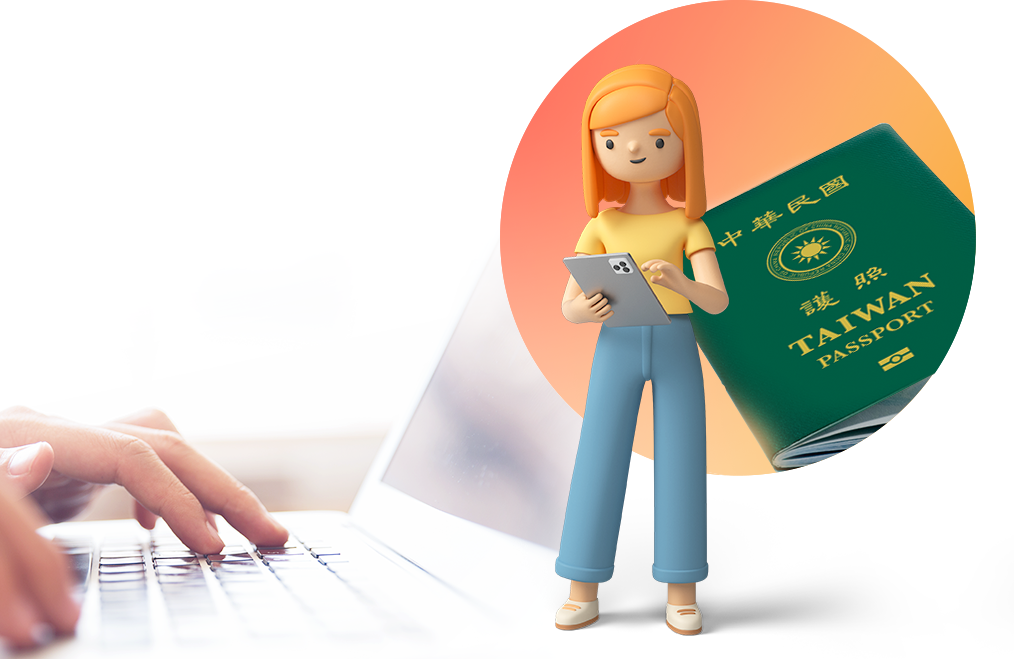
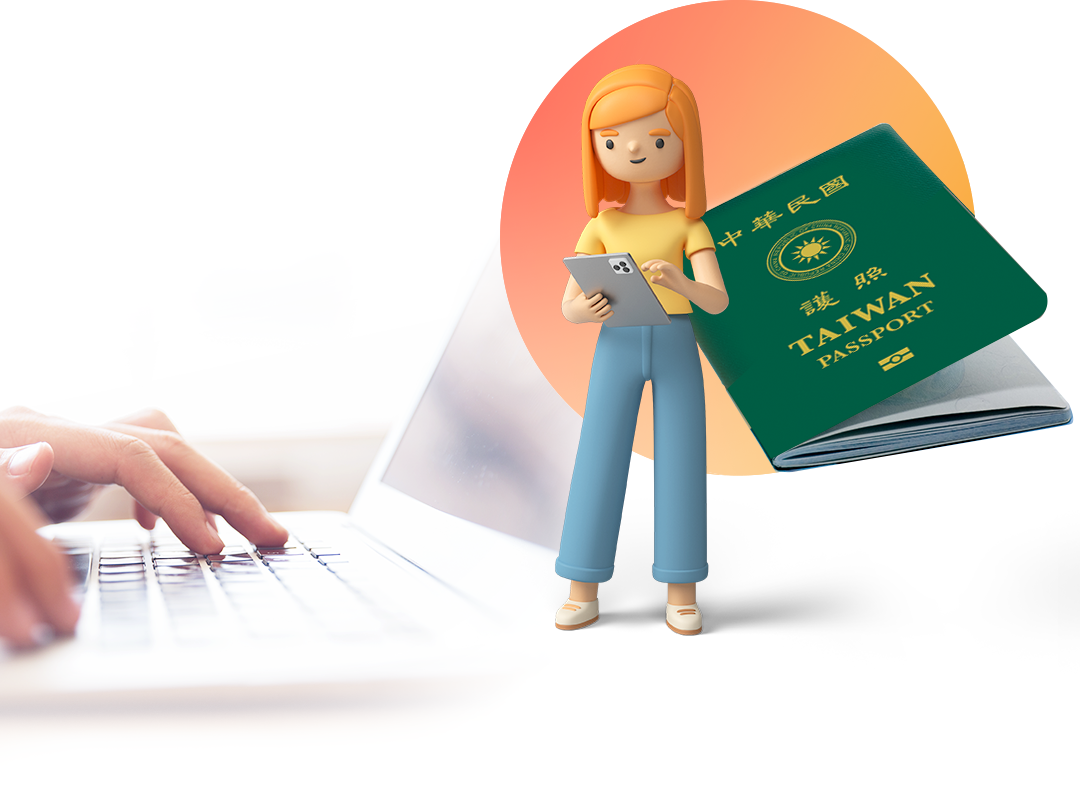
行高、hero img 調整

diff --git a/css/boca_personal.css b/css/boca_personal.css
@@ -9696,6 +9696,9 @@ b.B {
     height: auto;
   }
 }
+.foto-upload .info {
+  line-height: 1.85;
+}
 .foto-upload .info ol {
   border: 1px solid #d4d4d4;
   padding: 1.125em 2em 1.125em 3em;
@@ -10024,6 +10027,7 @@ b.B {
 
 .time_reserve .info {
   padding: 1.5em 0;
+  line-height: 1.85;
 }
 .time_reserve .date .part .col,
 .time_reserve .time_period .AM .part .col,
@@ -11537,6 +11541,7 @@ h1.title, h2.title {
 }
 .Login .control_panle .container {
   background: url(../images/bg-hero-personal.png) 50% 20% no-repeat, #fff;
+  background-size: contain;
   min-height: 683px;
   box-shadow: rgba(149, 157, 165, 0.2) 0px 8px 24px;
   position: relative;

diff --git a/css/boca.css b/css/boca.css
@@ -9696,6 +9696,9 @@ b.B {
     height: auto;
   }
 }
+.foto-upload .info {
+  line-height: 1.85;
+}
 .foto-upload .info ol {
   border: 1px solid #d4d4d4;
   padding: 1.125em 2em 1.125em 3em;
@@ -10024,6 +10027,7 @@ b.B {
 
 .time_reserve .info {
   padding: 1.5em 0;
+  line-height: 1.85;
 }
 .time_reserve .date .part .col,
 .time_reserve .time_period .AM .part .col,

diff --git a/sass/page/_template.scss b/sass/page/_template.scss
@@ -1516,6 +1516,7 @@ b.B {
     }
 
     .info {
+        line-height: 1.85;
         ol {
             border: 1px solid #d4d4d4;
             padding: 1.125em 2em 1.125em 3em;
@@ -1781,6 +1782,7 @@ b.B {
 .time_reserve {
     .info {
         padding: 1.5em 0;
+        line-height: 1.85;
     }
 
     .date,

diff --git a/sass/page/_personal.scss b/sass/page/_personal.scss
@@ -28,6 +28,7 @@
 	.control_panle{
 		.container{
 			background: url(../images/bg-hero-personal.png) 50% 20% no-repeat, #fff;
+      background-size: contain;
 			min-height: 683px;
 			box-shadow: rgba(149, 157, 165, 0.2) 0px 8px 24px;
 
